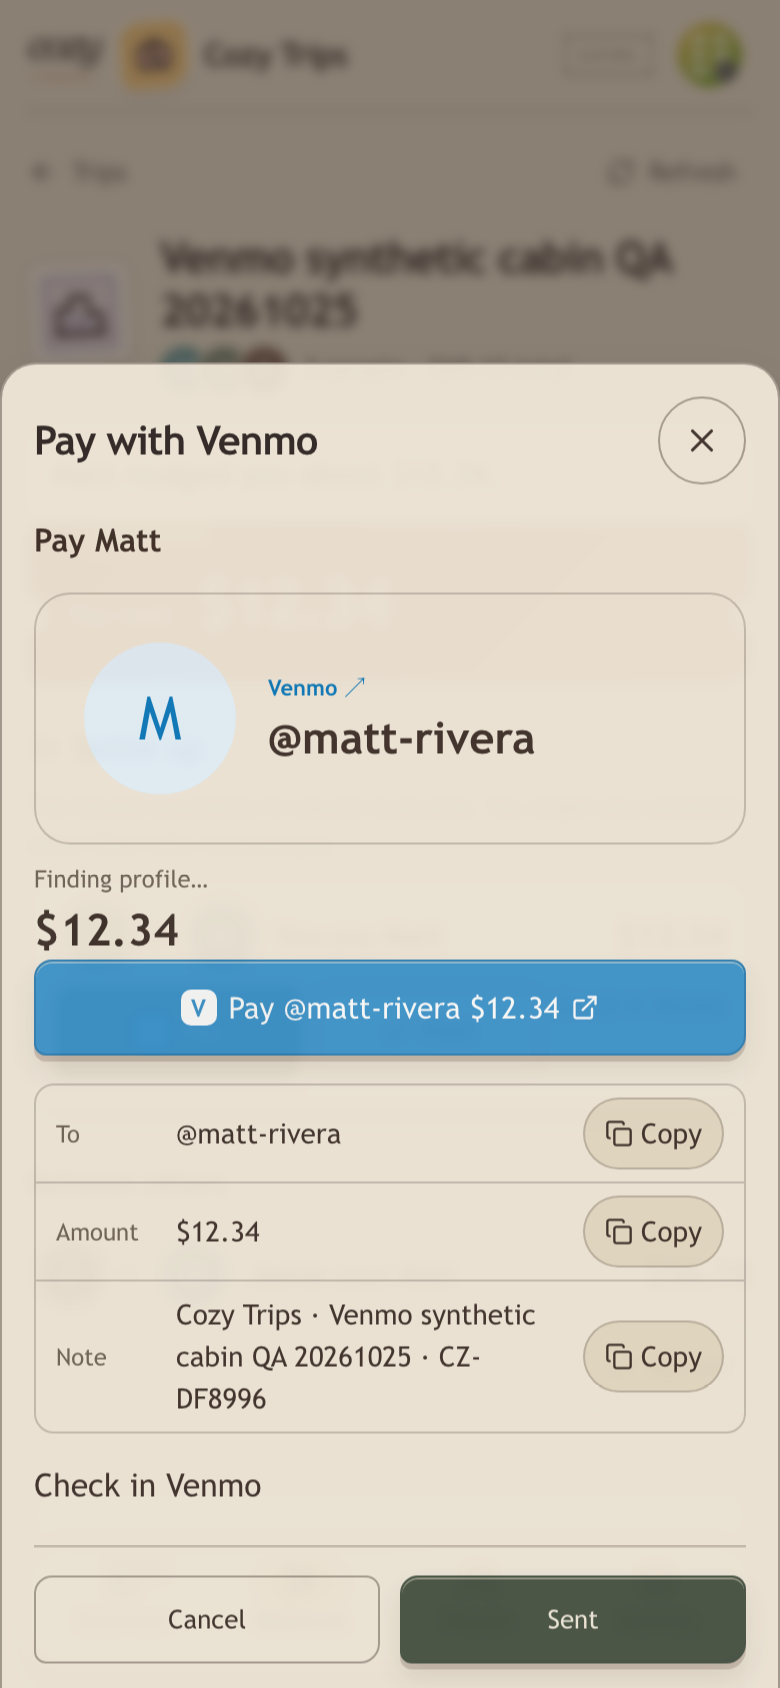
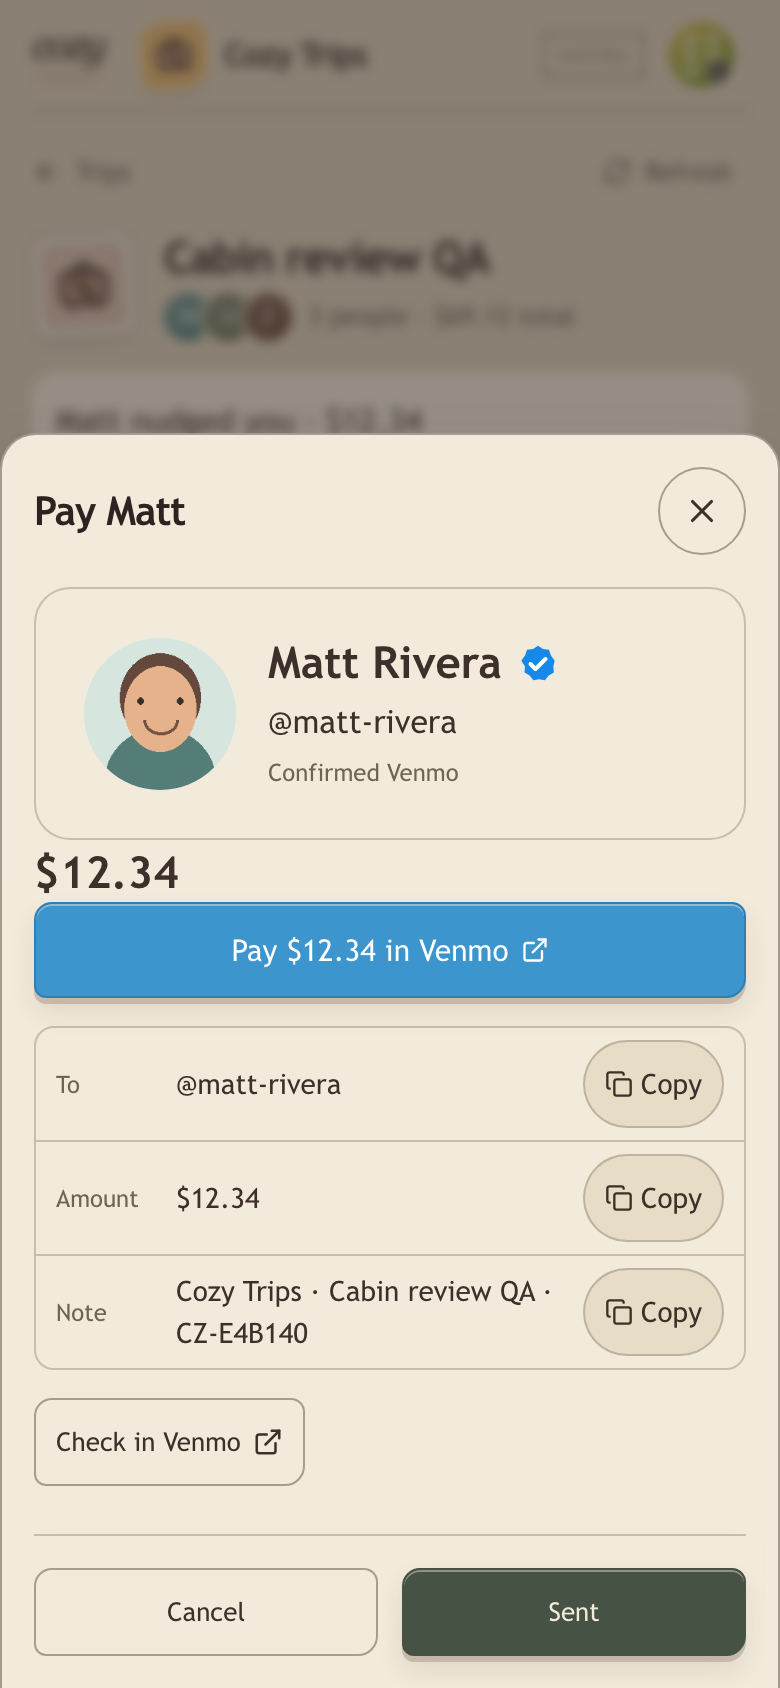
Venmo: refresh review evidence and confirmed-card screenshots

diff --git a/docs/venmo-feature-map.md b/docs/venmo-feature-map.md
@@ -8,33 +8,59 @@ phone was not tested.
 
 | # | Journey | Result and evidence |
 | --- | --- | --- |
-| 1 | Confirm Venmo | **PASS.** Typing shows the name/photo card; the initial confirmation asks “Is this you?”. Saving confirms the normalized handle. An unknown handle stays link-only, without an error wall. |
+| 1 | Confirm Venmo | **PASS.** Typing shows the name/photo card; the fuller card shows a 112 px photo, display name and @handle. “No, it’s not” opens the live editor without confirming; reviewing the new handle asks again. Only “Yes, that’s me” confirms the displayed handle. The blue accessible “Confirmed Venmo” badge appears after Yes and disappears on a handle change. An unknown handle stays link-only, without an error wall. |
 | 2 | Layered preview | **PASS.** OG-only fixture returned `source: og` and rendered a card. After restarting the preview process with upstream failures, the persisted card returned `source: cached, stale: true` and rendered quietly. A cacheless handle remained link-only. |
 | 3 | Photos | **PASS.** Both list images loaded from authenticated Cozy `/venmo/photo` URLs. A fixture with an unapproved photo host returned `found: false`; no request reached that host. Host, type, size, normalization and signature-expiry tests pass. |
 | 4 | Gentleness | **PASS.** Forty profile requests produced five upstream failures; after a two-second pause, a different user's uncached probe still produced no upstream call. Cached and link-only views remained usable. Clock-controlled tests cover bucket refill, jitter and single half-open probes. |
-| 5 | Canary | **PASS.** Running the one-shot CLI on the good fixture printed `ok` and exited 0. Garbage printed `venmo_profile_shape_changed` with failing layers/keys and exited 1. |
-| 6 | Pay | **PASS.** The payer sheet displayed the payee card above the amount. Its URL used `txn=pay`, the exact $12.34 amount, percent-encoded spaces, the trip note and the obligation reference. |
-| 7 | Request | **PASS.** “Who owes you” displayed separate debtor cards for $12.34 and $56.78. Each row's Request opens the exact `txn=charge` URL for that person and amount. After settling one, the remaining debtor becomes the next row. |
-| 8 | Return prompt | **PASS.** Focus return after opening Pay or Request showed the matching question. Not yet, dismissal and leaving the sheet preserved the open debt. Only Sent / Got it wrote a settlement. |
-| 9 | Either party settles | **PASS.** Got it by the person owed and Sent by the payer each produced one repayment through the existing ledger command. The other account read the settled state and updated balances without a confirmation. Concurrent-party database coverage proves one repayment, not two. |
-| 10 | Undo | **PASS.** Row Undo and toast Undo each reopened the obligation and restored the original balances. Cycle guards reject a delayed Sent retry after Undo. |
-| 11 | Check in Venmo | **PASS (web link).** Rows and prompts use exactly `https://venmo.com/u/{handle}`. Physical-phone app opening remains unverified. |
-| 12 | Nudge | **PASS.** Aging only the synthetic obligations by four days exposed Nudge. A repeat request returned 422 inside 48 hours. The payer saw the banner on opening Expenses as well as Balances. |
-| 13 | Regression | **PASS.** Created a synthetic trip through the UI, added an expense, exercised unequal splits and settle-up, and reopened `/dice` with its seeded matches/standings. Full backend and frontend suites, lint, production build and migration checks pass. |
+| 5 | Pay | **PASS.** The payer sheet displayed the payee card above the amount, with the blue confirmation badge only for an owner-confirmed payee. Its URL used `txn=pay`, the exact $12.34 amount, percent-encoded spaces, the trip note and the obligation reference. |
+| 6 | Request | **PASS.** “Who owes you” displayed separate debtor cards for $12.34 and $56.78. Each row's Request opens the exact `txn=charge` URL for that person and amount. After settling one, the remaining debtor becomes the next row. |
+| 7 | Return prompt | **PASS.** Focus return after opening Pay or Request showed the matching question. Not yet, dismissal and leaving the sheet preserved the open debt. Only Sent / Got it wrote a settlement. Replacing $12.34 with $56.78 during the return prompt removed that prompt without a repayment. ID, cycle, amount and handle changes invalidate the captured payment; backend ID/amount checks reject stale requests. |
+| 8 | Either party settles | **PASS.** Got it by the person owed and Sent by the payer each produced one repayment through the existing ledger command. The other account read the settled state and updated balances without a confirmation. Concurrent-party database coverage proves one repayment, not two. |
+| 9 | Undo | **PASS.** Row Undo and toast Undo each reopened the obligation and restored the original balances. Cycle guards reject a delayed Sent retry after Undo. A third member’s legacy DELETE of an obligation-linked repayment returns 403 and preserves balances; either party can undo. |
+| 10 | Check in Venmo | **PASS (web link).** Rows and prompts use exactly `https://venmo.com/u/{handle}`. Physical-phone app opening remains unverified. |
+| 11 | Nudge | **PASS.** Aging only the synthetic obligations by four days exposed Nudge. A repeat request returned 422 inside 48 hours. The payer saw the banner on opening Expenses as well as Balances. |
+| 12 | Regression | **PASS.** Created a synthetic trip through the UI, added an expense, exercised unequal splits and settle-up, and reopened `/dice` with its seeded matches/standings. Full backend and frontend suites, lint, production build and migration checks pass. |
 
 ## Local validation
 
 Use Node 22 and the repository backend virtualenv.
 
-- `cd backend && .venv/bin/python -m pytest tests -q`: **1,314 passed, 51 skipped**.
-- `cd backend && DICE_TEST_DATABASE=1 DICE_REQUIRE_DATABASE_TESTS=1 DB_URL="$LOCAL_DICE_TEST_DB_URL" .venv/bin/python -m pytest tests -q`: **1,354 passed, 11 skipped**. The database was an allowlisted disposable loopback database, bootstrapped with `scripts/bootstrap-dice-test-db.sh`.
-- `cd frontend && npm test -- --run --maxWorkers=1 --testTimeout=30000`: **558 passed across 74 files**; the serial setting avoids contention on the development machine.
+- `cd backend && DICE_TEST_DATABASE=1 DICE_REQUIRE_DATABASE_TESTS=1 DB_URL="$LOCAL_DICE_TEST_DB_URL" .venv/bin/python -m pytest tests -q`: **1,381 passed, 11 skipped**. The database was an allowlisted disposable loopback database, bootstrapped with `scripts/bootstrap-dice-test-db.sh`.
+- `cd frontend && npm test -- --run --maxWorkers=1 --testTimeout=30000`: **583 passed across 75 files**; the serial setting avoids contention on the development machine.
 - `cd frontend && npm run lint`: passed.
 - `cd frontend && npm run build:check`, with synthetic loopback build configuration: passed, including the 500 KiB chunk budget.
 - `scripts/check-dice-migration-contract.sh` and `scripts/check-commons-migration-contract.sh`: passed.
 
-The database-enabled LKG and concurrent-party test also passed against local
-Supabase. Opt-in integration skips are reported above; no hosted database was used.
+The 11 skips are nine opt-in Trips integration tests and two tests requiring the
+locked local Dice REST API. The guarded Dice PostgreSQL tests ran against the
+allowlisted disposable loopback database. Earlier standard runs skipped another
+40 PostgreSQL tests; the command above enables them. No hosted database was used.
+
+Rebased onto `origin/main` at `e804710` (#125, #127, #128 and #129). Main's Trips
+spacing rules are preserved. Main's highest top-level migration is 0080, so
+**0081 remains the next free number** for the Venmo public-profile cache.
+
+Before this rebase, the reported Dice foreground-resync failure did not reproduce.
+At `origin/main`
+`db9608c`, both the default full frontend run and the serial full run passed
+(**555 tests** each), and ten separate invocations of “coalesces foreground resync
+while a canonical refresh is in flight” passed. The rebased branch full run passed all
+583 tests. This stack adds no Dice implementation changes; no order dependence
+was observed.
+
+Review verification used the new synthetic “Cabin review QA” trip. It repeated
+unequal splits, exact pay/request links, stale-prompt invalidation, settlement and
+both Undo paths, nudge cooldown/banner, cached preview after a process restart,
+OG/invalid-host/link-only fixtures, and request throttling.
+The question card has no confirmation badge, label or divider. Pay and debtor
+cards retain the badge and plain small “Confirmed Venmo” text for confirmed handles.
+Tap, hover or keyboard focus on the badge shows who confirmed it; Escape or
+leaving the badge dismisses the tooltip. Pay uses one title, “Pay Matt”, and
+“Pay $12.34 in Venmo”. Debtor rows show the card, amount and actions without
+repeating the person’s name above the card. Return questions read “Sent $12.34
+to Matt?” / “Got $12.34 from Alex?”. “Check in Venmo” is an outline button
+with an external-link icon; debtor cards fill their row and Request uses the same
+text style as Received. These layouts passed 390 px and 320 px checks.
 
 ## Review boundaries
 
@@ -48,11 +74,13 @@ requires refreshing before another explicit settle.
 
 ## Screenshots
 
-![Confirm a synthetic profile](images/venmo/confirm.png)
+![Synthetic confirmation question without a badge](images/venmo/confirm.png)
 
 ![Individual debtor cards and requests](images/venmo/who-owes-you.png)
 
-![Pay sheet with payee card](images/venmo/pay-sheet.png)
+![Pay sheet with confirmed payee badge](images/venmo/pay-sheet.png)
+
+![Confirmation tooltip](images/venmo/confirmed-tooltip.png)
 
 ![Return prompt](images/venmo/return-prompt.png)
 
